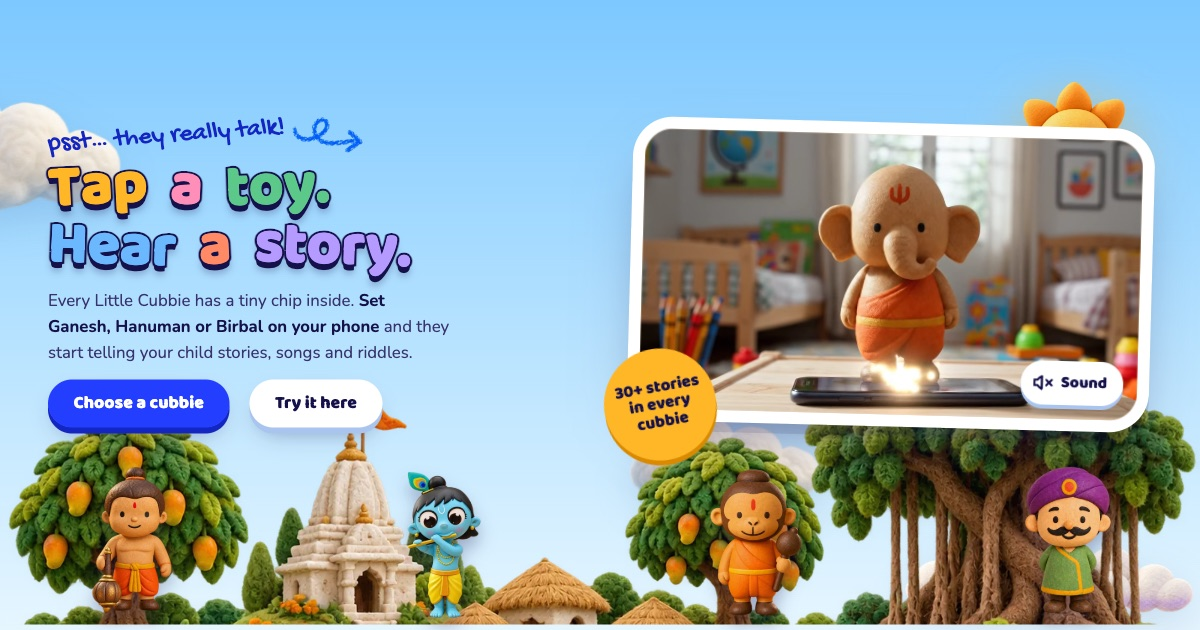
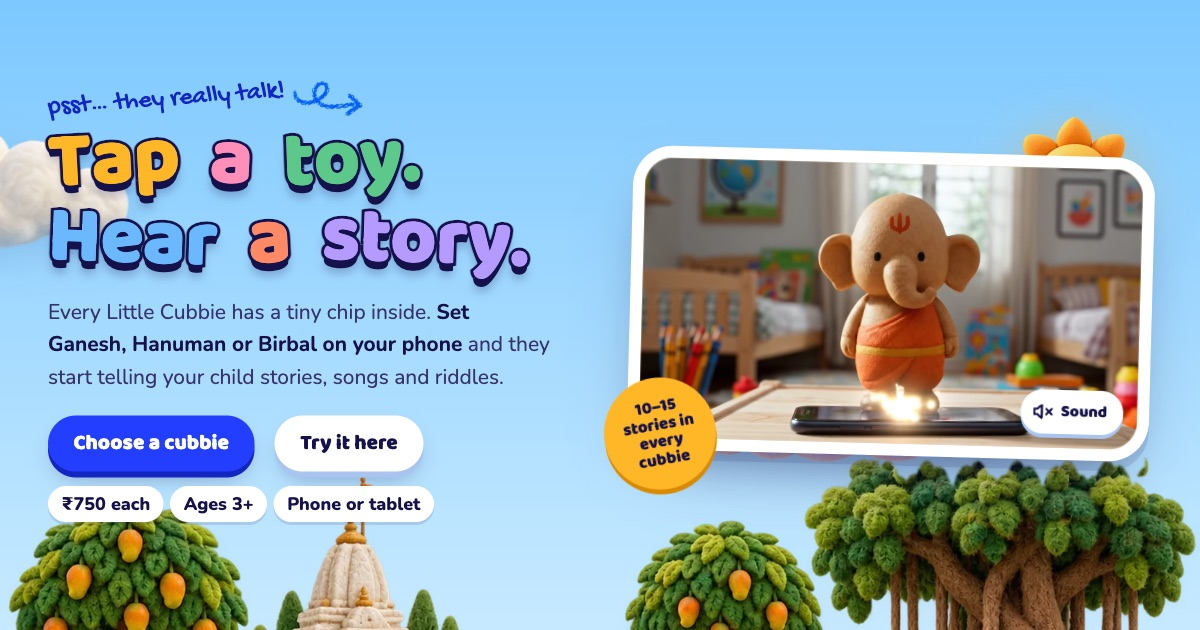
Correct story count: 10-15 stories per cubbie (70+ for all seven)

diff --git a/site/index.html b/site/index.html
@@ -4,7 +4,7 @@
   <meta charset="utf-8">
   <meta name="viewport" content="width=device-width, initial-scale=1">
   <title>Little Cubbie | Tap a toy, hear a story</title>
-  <meta name="description" content="Little Cubbie story toys have a tiny chip inside. Tap Lord Ganesh, Hanuman, Birbal or friends on your phone and they tell your child 30+ stories, songs and games. ₹750, ages 3+.">
+  <meta name="description" content="Little Cubbie story toys have a tiny chip inside. Tap Lord Ganesh, Hanuman, Birbal or friends on your phone and they tell your child 10–15 stories each. ₹750, ages 3+.">
   <meta name="theme-color" content="#9ad8ff">
   <link rel="icon" href="assets/img/favicon.svg" type="image/svg+xml">
   <link rel="apple-touch-icon" href="assets/img/apple-touch-icon.png">
@@ -96,7 +96,7 @@
         <div class="pdp__info">
           <h1 class="pdp__title" id="pdp-title"><span id="pdp-name">Lord Ganesh</span> story cubbie</h1>
           <p class="pdp__tag" id="pdp-values">Wisdom, kindness and playful adventures</p>
-          <p class="pdp__price"><span id="pdp-price">₹750</span><span class="pdp__price-note">30+ stories, songs and games inside</span></p>
+          <p class="pdp__price"><span id="pdp-price">₹750</span><span class="pdp__price-note">10–15 stories inside</span></p>
 
           <fieldset class="pdp__pick">
             <legend>Choose your cubbie</legend>
@@ -151,7 +151,7 @@
           <p class="pdp__secure"><svg viewBox="0 0 24 24" fill="none" stroke="currentColor" stroke-width="2.4" stroke-linecap="round" stroke-linejoin="round" aria-hidden="true"><rect x="4" y="10" width="16" height="11" rx="3"/><path d="M8 10V7a4 4 0 0 1 8 0v3"/></svg>Secure checkout on littlecubbie.com</p>
 
           <ul class="pdp__perks">
-            <li><span class="perk-ico" style="--c:#ffb627">★</span>30+ stories, songs, games and activities</li>
+            <li><span class="perk-ico" style="--c:#ffb627">★</span>10–15 stories in every cubbie</li>
             <li><span class="perk-ico" style="--c:#6bb8ff">◎</span>Works on phone, tablet and Cubbie Box</li>
             <li><span class="perk-ico" style="--c:#5cc98a">✎</span>Written by teachers, gently paced</li>
             <li><span class="perk-ico" style="--c:#ff9bc4">♥</span>No batteries, no charging</li>
@@ -198,7 +198,7 @@
               <span>Sound</span>
             </button>
           </div>
-          <p class="sticker" aria-hidden="true">30+ stories in every cubbie</p>
+          <p class="sticker" aria-hidden="true">10–15 stories in every cubbie</p>
         </div>
       </div>
 
@@ -279,7 +279,7 @@
                   </div>
                 </div>
               </div>
-              <p class="stage__fine">A short preview of the real story. Each cubbie unlocks the full story, plus 30+ stories, songs and games, in the app.</p>
+              <p class="stage__fine">A short preview of the real story. Each cubbie unlocks the full story, and 10–15 stories in all, in the app.</p>
               <p class="visually-hidden" aria-live="polite" id="stage-status"></p>
             </div>
           </div>
@@ -292,7 +292,7 @@
       <div class="wrap">
         <div class="section__head">
           <h2 id="cubbies-title">Who's coming home first?</h2>
-          <p>Seven storytellers from India's best-loved tales. Each one unlocks its own world of 30+ stories, songs and games. Tap one to say hello.</p>
+          <p>Seven storytellers from India's best-loved tales. Each one unlocks its own world of 10–15 stories. Tap one to say hello.</p>
           <p class="note note--collect" aria-hidden="true">collect all 7!<img src="assets/img/doodle/crown.webp" alt="" width="200" height="171"></p>
         </div>
         <ul class="gang" id="gang">
@@ -433,7 +433,7 @@
         </ul>
         <div class="gang-all">
           <div class="gang-all__faces" aria-hidden="true"><img src="assets/img/ganesh-300.webp" alt="" width="300" height="360" loading="lazy" style="--world:#ffb627"><img src="assets/img/hanuman-300.webp" alt="" width="300" height="360" loading="lazy" style="--world:#ff8a65"><img src="assets/img/ram-300.webp" alt="" width="300" height="360" loading="lazy" style="--world:#5cc98a"><img src="assets/img/krishna-300.webp" alt="" width="300" height="360" loading="lazy" style="--world:#ff9bc4"><img src="assets/img/bheem-300.webp" alt="" width="300" height="360" loading="lazy" style="--world:#6bb8ff"><img src="assets/img/birbal-300.webp" alt="" width="300" height="360" loading="lazy" style="--world:#b59bff"><img src="assets/img/tenali-300.webp" alt="" width="300" height="360" loading="lazy" style="--world:#c5e86c"></div>
-          <p class="gang-all__text"><strong>Bring home the whole gang.</strong> All 7 cubbies, 210+ stories, songs and games.</p>
+          <p class="gang-all__text"><strong>Bring home the whole gang.</strong> All 7 cubbies, 70+ stories between them.</p>
           <span class="pal__price">₹5,250</span>
           <span class="gang-all__ctas">
             <a class="pick" data-add="all" href="https://littlecubbie.com/cart/add?items%5B%5D%5Bid%5D=46034661212348&amp;items%5B%5D%5Bquantity%5D=1&amp;items%5B%5D%5Bid%5D=46034688344252&amp;items%5B%5D%5Bquantity%5D=1&amp;items%5B%5D%5Bid%5D=46034780455100&amp;items%5B%5D%5Bquantity%5D=1&amp;items%5B%5D%5Bid%5D=41245465018556&amp;items%5B%5D%5Bquantity%5D=1&amp;items%5B%5D%5Bid%5D=46034772820156&amp;items%5B%5D%5Bquantity%5D=1&amp;items%5B%5D%5Bid%5D=46034790613180&amp;items%5B%5D%5Bquantity%5D=1&amp;items%5B%5D%5Bid%5D=46034793660604&amp;items%5B%5D%5Bquantity%5D=1">Add all 7 to cart</a>
@@ -546,7 +546,7 @@
           </details>
           <details>
             <summary>What does one cubbie unlock?</summary>
-            <p>30+ stories, songs, games and activities about that character, ready the moment the toy touches your device.</p>
+            <p>10–15 stories about that character, ready the moment the toy touches your device.</p>
           </details>
           <details>
             <summary>Does the toy need batteries or charging?</summary>

diff --git a/src/index.template.html b/src/index.template.html
@@ -4,7 +4,7 @@
   <meta charset="utf-8">
   <meta name="viewport" content="width=device-width, initial-scale=1">
   <title>Little Cubbie | Tap a toy, hear a story</title>
-  <meta name="description" content="Little Cubbie story toys have a tiny chip inside. Tap Lord Ganesh, Hanuman, Birbal or friends on your phone and they tell your child 30+ stories, songs and games. ₹750, ages 3+.">
+  <meta name="description" content="Little Cubbie story toys have a tiny chip inside. Tap Lord Ganesh, Hanuman, Birbal or friends on your phone and they tell your child 10–15 stories each. ₹750, ages 3+.">
   <meta name="theme-color" content="#9ad8ff">
   <link rel="icon" href="assets/img/favicon.svg" type="image/svg+xml">
   <link rel="apple-touch-icon" href="assets/img/apple-touch-icon.png">
@@ -92,7 +92,7 @@
         <div class="pdp__info">
           <h1 class="pdp__title" id="pdp-title"><span id="pdp-name">{{PDP_NAME}}</span> story cubbie</h1>
           <p class="pdp__tag" id="pdp-values">{{PDP_VALUES}}</p>
-          <p class="pdp__price"><span id="pdp-price">₹{{PDP_PRICE}}</span><span class="pdp__price-note">30+ stories, songs and games inside</span></p>
+          <p class="pdp__price"><span id="pdp-price">₹{{PDP_PRICE}}</span><span class="pdp__price-note">10–15 stories inside</span></p>
 
           <fieldset class="pdp__pick">
             <legend>Choose your cubbie</legend>
@@ -113,7 +113,7 @@
           <p class="pdp__secure"><svg viewBox="0 0 24 24" fill="none" stroke="currentColor" stroke-width="2.4" stroke-linecap="round" stroke-linejoin="round" aria-hidden="true"><rect x="4" y="10" width="16" height="11" rx="3"/><path d="M8 10V7a4 4 0 0 1 8 0v3"/></svg>Secure checkout on littlecubbie.com</p>
 
           <ul class="pdp__perks">
-            <li><span class="perk-ico" style="--c:#ffb627">★</span>30+ stories, songs, games and activities</li>
+            <li><span class="perk-ico" style="--c:#ffb627">★</span>10–15 stories in every cubbie</li>
             <li><span class="perk-ico" style="--c:#6bb8ff">◎</span>Works on phone, tablet and Cubbie Box</li>
             <li><span class="perk-ico" style="--c:#5cc98a">✎</span>Written by teachers, gently paced</li>
             <li><span class="perk-ico" style="--c:#ff9bc4">♥</span>No batteries, no charging</li>
@@ -160,7 +160,7 @@
               <span>Sound</span>
             </button>
           </div>
-          <p class="sticker" aria-hidden="true">30+ stories in every cubbie</p>
+          <p class="sticker" aria-hidden="true">10–15 stories in every cubbie</p>
         </div>
       </div>
 
@@ -216,7 +216,7 @@
                   </div>
                 </div>
               </div>
-              <p class="stage__fine">A short preview of the real story. Each cubbie unlocks the full story, plus 30+ stories, songs and games, in the app.</p>
+              <p class="stage__fine">A short preview of the real story. Each cubbie unlocks the full story, and 10–15 stories in all, in the app.</p>
               <p class="visually-hidden" aria-live="polite" id="stage-status"></p>
             </div>
           </div>
@@ -229,7 +229,7 @@
       <div class="wrap">
         <div class="section__head">
           <h2 id="cubbies-title">Who's coming home first?</h2>
-          <p>Seven storytellers from India's best-loved tales. Each one unlocks its own world of 30+ stories, songs and games. Tap one to say hello.</p>
+          <p>Seven storytellers from India's best-loved tales. Each one unlocks its own world of 10–15 stories. Tap one to say hello.</p>
           <p class="note note--collect" aria-hidden="true">collect all 7!<img src="assets/img/doodle/crown.webp" alt="" width="200" height="171"></p>
         </div>
         <ul class="gang" id="gang">
@@ -342,7 +342,7 @@
           </details>
           <details>
             <summary>What does one cubbie unlock?</summary>
-            <p>30+ stories, songs, games and activities about that character, ready the moment the toy touches your device.</p>
+            <p>10–15 stories about that character, ready the moment the toy touches your device.</p>
           </details>
           <details>
             <summary>Does the toy need batteries or charging?</summary>
